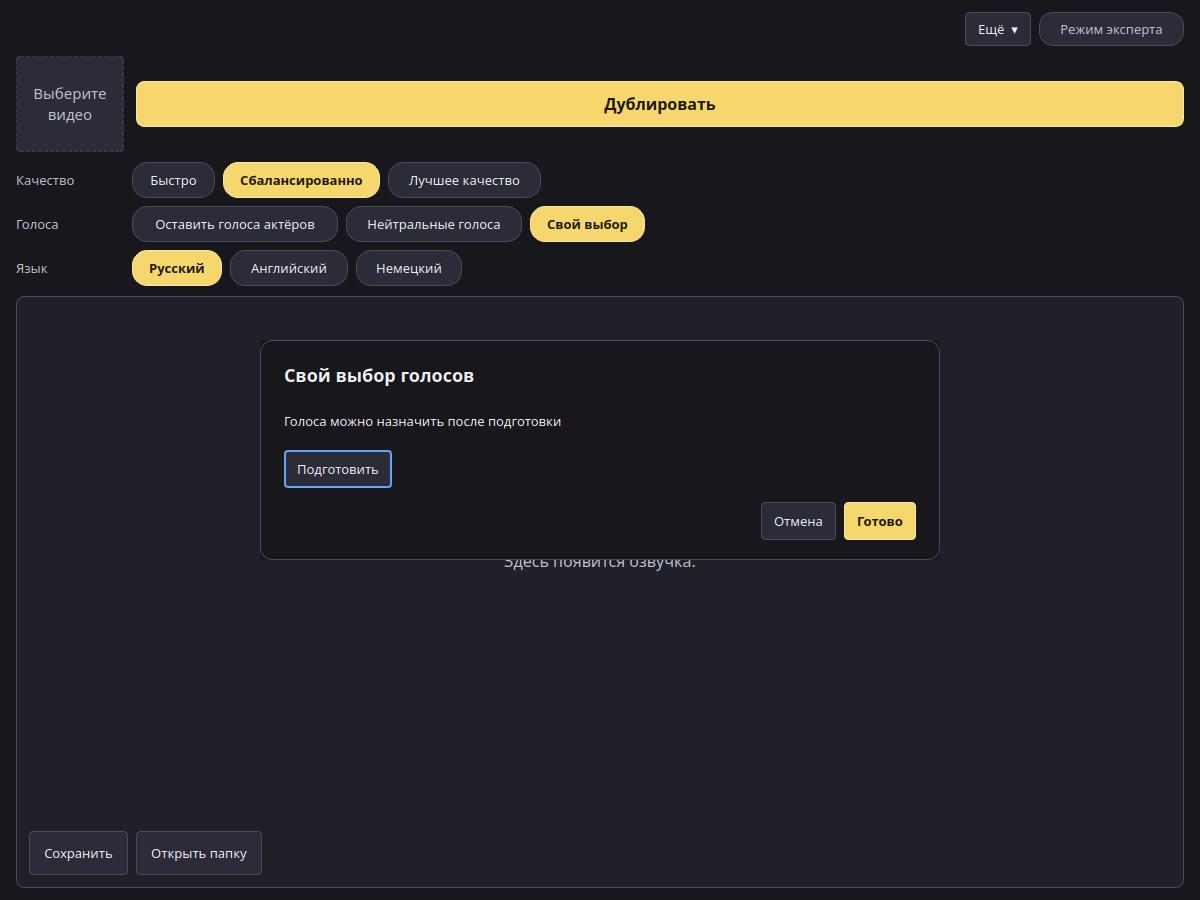
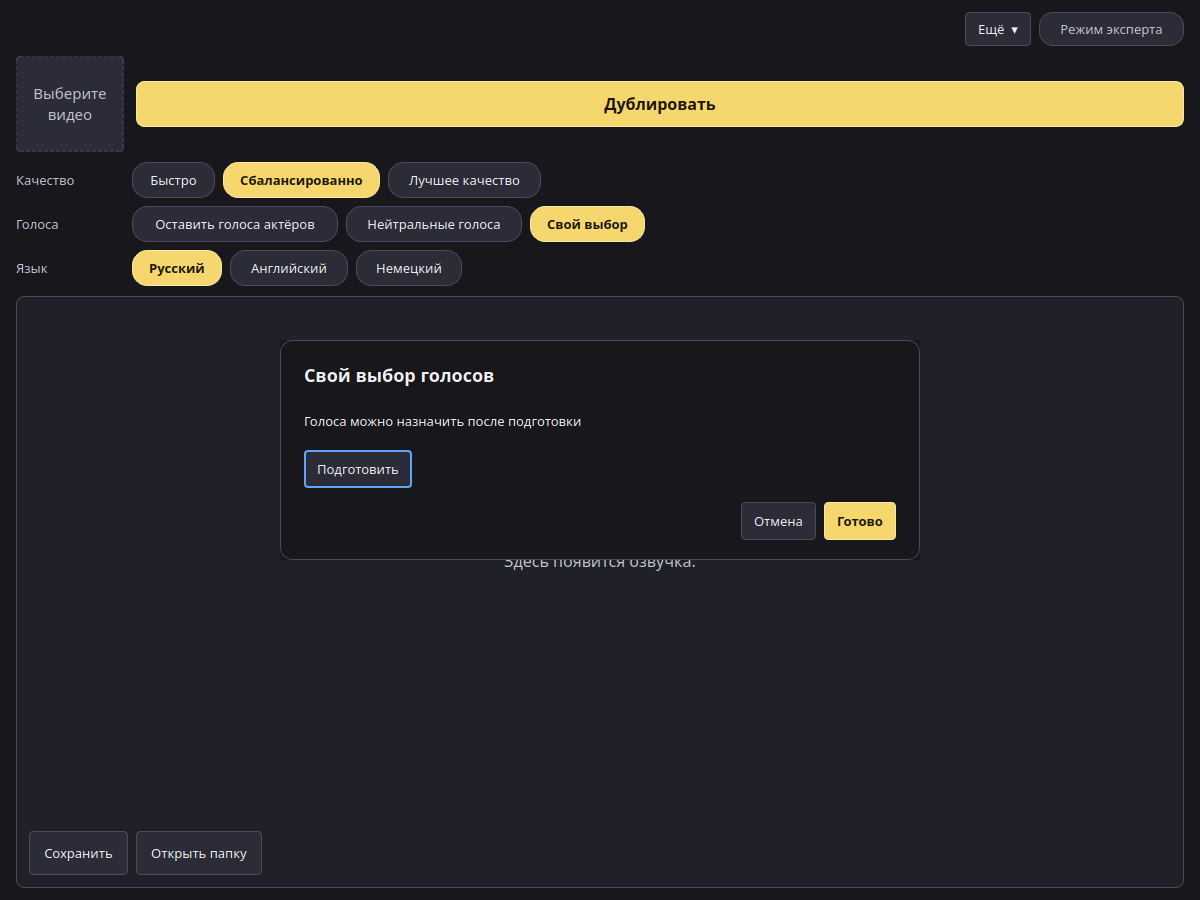
Label diarization speakers as Voice N in Custom voices.
The dialog no longer shows character names. Each row is Voice 1, Voice 2, and so on, with speech time, a film excerpt, a library voice, and a preview of that library voice. The Characters step uses the same Voice N label for a blank or generic speaker name.

Changed region(s): [[0.2158, 0.4667, 0.4933, 0.56], [0.6167, 0.56, 0.7708, 0.6222], [0.2158, 0.4044, 0.4317, 0.4356]]

diff --git a/dubber/ui/voice_cast.py b/dubber/ui/voice_cast.py
@@ -47,16 +47,20 @@ class CastHost(Protocol):
         """Return whether Prepare has finished and the film has lines."""
         ...
 
-    def cast_characters(self) -> list[tuple[str, str, str]]:
-        """Return ``(id, name, voice key)`` for each character."""
+    def cast_characters(self) -> list[tuple[str, str, str, str]]:
+        """Return ``(id, Voice N, voice key, speech detail)`` for each speaker."""
         ...
 
     def cast_prepare(self) -> None:
         """Start Prepare."""
         ...
 
-    def cast_listen(self, sid: str) -> None:
-        """Play a sample of this character's voice."""
+    def cast_play_excerpt(self, sid: str) -> None:
+        """Play this speaker's short clip from the film."""
+        ...
+
+    def cast_play_library(self, sid: str) -> None:
+        """Play the library voice chosen for this speaker."""
         ...
 
     def cast_assign(self, sid: str, key: str) -> None:
@@ -75,7 +79,7 @@ class VoiceCastDialog(QDialog):
         """
         super().__init__(host)
         self._host = cast(CastHost, host)
-        self._original: list[tuple[str, str, str]] = []
+        self._original: list[tuple[str, str, str, str]] = []
         self.setObjectName("voiceCast")
         self.setWindowFlag(Qt.WindowType.FramelessWindowHint, True)
         self.setAttribute(Qt.WidgetAttribute.WA_StyledBackground, True)
@@ -150,12 +154,14 @@ class VoiceCastDialog(QDialog):
         self._hint.setText(tr("shell.voice.cast_hint") if ready else tr("shell.voice.cast_wait"))
         self._prepare_row.setVisible(not ready)
         self._scroll.setVisible(ready)
+        self.setMinimumWidth(920 if ready else 640)
         if not ready:
             self.adjustSize()
             return
         items = _library_items()
-        for sid, name, chosen in self._original:
-            self._rows.addWidget(self._row(sid, name, chosen, items))
+        for sid, label, chosen, detail in self._original:
+            self._rows.addWidget(self._row(sid, label, chosen, detail, items))
+        self._scroll.setMinimumHeight(min(440, max(56, 64 * len(self._original))))
         self._rows.addStretch(1)
         self.adjustSize()
 
@@ -181,24 +187,44 @@ class VoiceCastDialog(QDialog):
         self._host.cast_prepare()
 
     def _cancel_clicked(self) -> None:
-        for sid, _name, key in self._original:
+        for sid, _label, key, _detail in self._original:
             self._host.cast_assign(sid, key or "clone:")
         self.reject()
 
-    def _row(self, sid: str, name: str, current: str, items: list[tuple[Voice, str]]) -> QWidget:
+    def _row(
+        self,
+        sid: str,
+        label: str,
+        current: str,
+        detail: str,
+        items: list[tuple[Voice, str]],
+    ) -> QWidget:
         row = QWidget()
         row.setObjectName(f"voiceRow-{sid}")
         layout = QHBoxLayout(row)
         layout.setContentsMargins(0, 0, 0, 0)
         layout.setSpacing(12)
-        label = QLabel(name)
-        label.setObjectName(f"voiceName-{sid}")
-        label.setMinimumWidth(140)
-        label.setSizePolicy(QSizePolicy.Policy.Preferred, QSizePolicy.Policy.Fixed)
+        names_host = QWidget()
+        names_host.setFixedWidth(136)
+        names = QVBoxLayout(names_host)
+        names.setContentsMargins(0, 0, 0, 0)
+        names.setSpacing(0)
+        title = QLabel(label)
+        title.setObjectName(f"voiceName-{sid}")
+        meta = QLabel(detail)
+        meta.setObjectName(f"voiceMeta-{sid}")
+        meta.setProperty("voiceMeta", "true")
+        names.addWidget(title)
+        names.addWidget(meta)
+        excerpt = QPushButton(tr("shell.voice.play_excerpt"))
+        excerpt.setObjectName(f"voiceExcerpt-{sid}")
+        excerpt.setAutoDefault(False)
+        excerpt.setSizePolicy(QSizePolicy.Policy.Fixed, QSizePolicy.Policy.Fixed)
+        excerpt.clicked.connect(lambda _checked=False, speaker=sid: self._host.cast_play_excerpt(speaker))
         picker = QComboBox()
         picker.setObjectName(f"voicePick-{sid}")
         picker.setSizePolicy(QSizePolicy.Policy.Expanding, QSizePolicy.Policy.Fixed)
-        picker.setMinimumContentsLength(18)
+        picker.setMinimumContentsLength(16)
         picker.setSizeAdjustPolicy(QComboBox.SizeAdjustPolicy.AdjustToMinimumContentsLengthWithIcon)
         if items:
             fill_voice_combo(picker, _voice_from_key(current), items)
@@ -208,14 +234,15 @@ class VoiceCastDialog(QDialog):
         else:
             picker.addItem(tr("shell.voice.none"))
             picker.setEnabled(False)
-        listen = QPushButton(tr("chars.listen"))
-        listen.setObjectName(f"voiceListen-{sid}")
-        listen.setAutoDefault(False)
-        listen.setSizePolicy(QSizePolicy.Policy.Fixed, QSizePolicy.Policy.Fixed)
-        listen.clicked.connect(lambda _checked=False, speaker=sid: self._host.cast_listen(speaker))
-        layout.addWidget(label)
+        preview = QPushButton(tr("shell.voice.play_library"))
+        preview.setObjectName(f"voiceLibrary-{sid}")
+        preview.setAutoDefault(False)
+        preview.setSizePolicy(QSizePolicy.Policy.Fixed, QSizePolicy.Policy.Fixed)
+        preview.clicked.connect(lambda _checked=False, speaker=sid: self._host.cast_play_library(speaker))
+        layout.addWidget(names_host)
+        layout.addWidget(excerpt)
         layout.addWidget(picker, 1)
-        layout.addWidget(listen)
+        layout.addWidget(preview)
         return row
 
     def _assigned(self, sid: str, picker: QComboBox) -> None:
@@ -299,9 +326,12 @@ QLabel#voiceCastTitle {{
     font-weight: 600;
     background: transparent;
 }}
-QLabel#voiceCastHint {{
+QLabel#voiceCastHint, QLabel[voiceMeta="true"] {{
     color: {TEXT_MUTED};
     background: transparent;
+}}
+QLabel[voiceMeta="true"] {{
+    font-size: 11px;
 }}
 QWidget#voiceCastRows, QWidget#voiceCastPrepareRow, QScrollArea#voiceCastScroll {{
     background: {ROOT_PLAIN};

diff --git a/dubber/ui/shell_window.py b/dubber/ui/shell_window.py
@@ -26,7 +26,7 @@ from dubber.ui import dialogs
 from dubber.ui.feature_wizard import FeatureWizard
 from dubber.ui.jobs import PipelineThread
 from dubber.ui.setup_progress import ensure_with_dialog, startup_repair_dialog
-from dubber.ui.pages import voice_from_key
+from dubber.ui.pages import speaker_number, voice_from_key
 from dubber.ui.shell_state import apply_engine, apply_project, build_layout, dub_settings
 from dubber.ui.voice_cast import VoiceCastDialog, current_voice_key
 from dubber.ui.window import MainWindow
@@ -450,17 +450,20 @@ class ShellWindow(QWidget):
         studio = self._studio
         return studio is not None and studio._prepared()
 
-    def cast_characters(self) -> list[tuple[str, str, str]]:
-        """Return each character's id, name, and library voice key."""
+    def cast_characters(self) -> list[tuple[str, str, str, str]]:
+        """Return each speaker's id, Voice N label, library voice key, and speech detail."""
         studio = self._studio
         project = None if studio is None else studio.project
         if project is None:
             return []
-        people = sorted(project.speakers, key=lambda speaker: -speaker.seconds)
-        return [
-            (speaker.id, speaker.name or speaker.id, current_voice_key(speaker.voice))
-            for speaker in people
-        ]
+        people = sorted(project.speakers, key=lambda speaker: speaker_number(speaker.id, 10**6))
+        rows: list[tuple[str, str, str, str]] = []
+        for index, speaker in enumerate(people, start=1):
+            number = speaker_number(speaker.id, index)
+            lines = sum(1 for line in project.lines if line.speaker == speaker.id)
+            detail = tr("chars.seconds", s=int(speaker.seconds), n=lines)
+            rows.append((speaker.id, tr("shell.voice.speaker", n=number), current_voice_key(speaker.voice), detail))
+        return rows
 
     def cast_prepare(self) -> None:
         """Run Prepare, then fill the character list."""
@@ -481,14 +484,28 @@ class ShellWindow(QWidget):
         if self._cast is not None and self._cast.isVisible():
             self._cast.reload()
 
-    def cast_listen(self, sid: str) -> None:
-        """Play the sample for one character.
+    def cast_play_excerpt(self, sid: str) -> None:
+        """Play this speaker's clip from the film.
 
         Args:
             sid: Speaker id.
         """
         studio = self._ensure_studio(sync_file=False, push=False)
-        studio.listen(sid)
+        if not studio.play_excerpt(sid):
+            self.view.set_note(tr("chars.no_sample"))
+
+    def cast_play_library(self, sid: str) -> None:
+        """Play the library voice chosen for this speaker.
+
+        Args:
+            sid: Speaker id.
+        """
+        studio = self._ensure_studio(sync_file=False, push=False)
+        project = studio.project
+        speaker = None if project is None else project.speaker(sid)
+        voice_id = speaker.voice.id if speaker is not None and speaker.voice.kind == "library" else ""
+        if not voice_id or not studio.play_library_preview(voice_id):
+            self.view.set_note(tr("shell.voice.no_preview"))
 
     def cast_assign(self, sid: str, key: str) -> None:
         """Save one character's library voice on the shared project.

diff --git a/dubber/ui/pages.py b/dubber/ui/pages.py
@@ -5,6 +5,7 @@ switches pages.  Every edit is written to the project folder at once, so a close
 """
 from __future__ import annotations
 
+import re
 from pathlib import Path
 from typing import Dict, List, Optional
 
@@ -27,6 +28,33 @@ def card(primary: bool = False) -> QFrame:
     f.setObjectName("card")
     f.setProperty("primary", "true" if primary else "false")
     return f
+
+
+_GENERIC_NAME = re.compile(r"(?:speaker|voice|голос)\s*\d+", re.IGNORECASE)
+_SPEAKER_ID = re.compile(r"S(\d+)", re.IGNORECASE)
+
+
+def speaker_number(sid: str, fallback: int) -> int:
+    """Return the diarization number in ``S3``, or ``fallback`` when the id has none."""
+    match = _SPEAKER_ID.fullmatch(sid.strip())
+    return int(match.group(1)) if match else fallback
+
+
+def speaker_label(stored: str, sid: str) -> str:
+    """Return ``Voice N`` unless the user has typed a real name.
+
+    Diarization does not know who is speaking. ``Speaker 1``, ``S1``, and a
+    blank name are the same speaker, shown in the current language.
+
+    Args:
+        stored: The name saved on the speaker.
+        sid: Speaker id, such as ``S2``.
+    """
+    text = (stored or "").strip()
+    number = speaker_number(sid, 1)
+    if not text or text == sid or _SPEAKER_ID.fullmatch(text) or _GENERIC_NAME.fullmatch(text):
+        return tr("shell.voice.speaker", n=number)
+    return text
 
 
 def label(obj: str = "", wrap: bool = True) -> QLabel:
@@ -553,7 +581,7 @@ class SpeakerCard(QFrame):
         lay = QGridLayout(self)
         lay.setContentsMargins(14, 10, 14, 10)
         self.chk = QCheckBox()
-        self.edt_name = QLineEdit(sp.name or sp.id)
+        self.edt_name = QLineEdit(speaker_label(sp.name, sp.id))
         self.edt_name.editingFinished.connect(lambda: page.rename(self.sid, self.edt_name.text()))
         self.chk_key = QCheckBox(tr("chars.key"))
         self.chk_key.setToolTip(tr("chars.key_tip"))
@@ -897,7 +925,7 @@ class LinesPage(QWidget):
         self.project = p
         self._loading = True
         self.table.setRowCount(len(p.lines))
-        names = {s.id: (s.name or s.id) for s in p.speakers}
+        names = {s.id: speaker_label(s.name, s.id) for s in p.speakers}
         multi = bool(p.settings.get("multi_voice"))
         ro = Qt.ItemFlag.ItemIsSelectable | Qt.ItemFlag.ItemIsEnabled
         for i, ln in enumerate(p.lines):
@@ -950,7 +978,10 @@ class LinesPage(QWidget):
             ln.keep_original = it.checkState() == Qt.CheckState.Checked
         elif col == COL_SPEAKER:
             name = it.text().strip()
-            sid = next((s.id for s in self.project.speakers if name in (s.id, s.name)), None)
+            sid = next(
+                (s.id for s in self.project.speakers if name in (s.id, s.name, speaker_label(s.name, s.id))),
+                None,
+            )
             if sid is None and name:
                 sid = name
             if sid and sid != ln.speaker:

diff --git a/tests/test_shell_window.py b/tests/test_shell_window.py
@@ -157,8 +157,15 @@ def test_custom_voices_wait_until_prepare_then_save_a_library_voice(tmp_path, mo
         (voice_dir / "adapter_config.json").write_text("{}", encoding="utf-8")
         (voice_dir / "voice.json").write_text(payload, encoding="utf-8")
     project = Project.create(folder, source)
-    project.speakers = [Speaker("S1", "Анна", voice=Voice("library", "maria"), seconds=4)]
-    project.lines = [Line(1, 0.0, 1.0, text="Hello", speaker="S1")]
+    project.speakers = [
+        Speaker("S1", "Ann", voice=Voice("library", "maria"), seconds=12),
+        Speaker("S2", "Speaker 2", seconds=4),
+    ]
+    project.lines = [
+        Line(1, 0.0, 1.0, text="Hello", speaker="S1"),
+        Line(2, 1.2, 2.0, text="Again", speaker="S1"),
+        Line(3, 2.2, 3.0, text="Yes", speaker="S2"),
+    ]
     project.stages["translation"] = {"done": True}
     project.settings["multi_voice"] = True
     project.save()
@@ -169,12 +176,22 @@ def test_custom_voices_wait_until_prepare_then_save_a_library_voice(tmp_path, mo
     assert not prepare.isVisible()
     name = dialog.findChild(QWidget, "voiceName-S1")
     picker = dialog.findChild(QComboBox, "voicePick-S1")
-    listen = dialog.findChild(QPushButton, "voiceListen-S1")
-    assert name is not None and name.text() == "Анна"
+    assert name is not None and name.text() == "Голос 1"
+    meta = dialog.findChild(QWidget, "voiceMeta-S1")
+    excerpt = dialog.findChild(QPushButton, "voiceExcerpt-S1")
+    library = dialog.findChild(QPushButton, "voiceLibrary-S1")
+    other = dialog.findChild(QWidget, "voiceName-S2")
+    assert other is not None and other.text() == "Голос 2"
+    assert meta is not None and "12" in meta.text()
+    assert excerpt is not None and excerpt.text() == "Прослушать отрывок"
+    assert library is not None and library.text() == "Прослушать голос"
+    assert dialog.findChild(QPushButton, "voiceListen-S1") is None
     assert picker is not None and picker.currentText() == "Maria (рус.)"
     assert "Библиотека" not in picker.currentText()
-    assert listen is not None and listen.text() == "Прослушать"
-    assert hint is not None and hint.text() == "Выберите голос из библиотеки для каждого персонажа."
+    assert "Ann" not in name.text()
+    assert hint is not None and hint.text() == "Послушайте отрывок каждого голоса из фильма и выберите для него голос озвучки."
+    studio.chars.load(project)
+    assert studio.chars.cards["S2"].edt_name.text() == "Голос 2"
     dialog.place_on_parent()
     QApplication.processEvents()
     for button in dialog.findChildren(QPushButton):

diff --git a/dubber/ui/window.py b/dubber/ui/window.py
@@ -666,6 +666,50 @@ class MainWindow(QWidget):
         if what in ("merge", "name", "voice"):
             self.lines.load(project)
 
+    def play_excerpt(self, sid: str) -> bool:
+        """Play this speaker's short clip from the film.
+
+        The clip is the reference built for the character card. When that file
+        is not ready yet, a few of the speaker's lines are joined instead.
+
+        Args:
+            sid: Speaker id.
+
+        Returns:
+            True when a clip started.
+        """
+        project = self.project
+        if project is None:
+            return False
+        speaker = project.speaker(sid)
+        clip: Optional[Path] = None
+        if speaker is not None and speaker.ref_audio:
+            path = project.abs(speaker.ref_audio)
+            if path.is_file():
+                clip = path
+        if clip is None:
+            clip = self._speaker_sample(sid)
+        if clip is None:
+            return False
+        self._play_clip(clip)
+        return True
+
+    def play_library_preview(self, voice_id: str) -> bool:
+        """Play the sample that belongs to a library voice.
+
+        Args:
+            voice_id: Library folder name.
+
+        Returns:
+            True when a clip started.
+        """
+        library = voices.get_library_voice(voice_id)
+        clip = None if library is None else library.preview
+        if clip is None or not clip.is_file():
+            return False
+        self._play_clip(clip)
+        return True
+
     def listen(self, sid: str) -> None:
         """Play what a voice will sound like: the library sample, the reference clip, or a few of the speaker's lines."""
         p = self.project

diff --git a/docs/ui/FEATURE-MAP.md b/docs/ui/FEATURE-MAP.md
@@ -11,7 +11,7 @@ The wizard steps are Film, Characters, Lines, and Dub. The Dub step is the playe
 | Choose a video (button, click, or drop; mkv, mp4, avi, mov, webm, m4v, ts, m2ts) | Main screen drop target. The Review wizard Film step has the same chooser. |
 | Dub language: Russian, English, or German | Language chips on the main screen, the Expert language field, and the Film step combo. One language per film, as before. |
 | Quality: Fast, Balanced, Best quality | Quality chips. Expert shows the concrete speech, separation, and batch values. |
-| Voices: Keep actor voices, Neutral voices, or Custom | Voices chips. Custom opens a dialog titled Choose voices, on the shell theme. After Prepare, each row is a character, a library voice, and Listen. Before Prepare it asks to prepare. The same multi-voice flag and per-character voice are what the Characters step and Expert use. Likeness stays in Expert. |
+| Voices: Keep actor voices, Neutral voices, or Custom | Voices chips. Custom opens a dialog titled Choose voices, on the shell theme. After Prepare, each row is a diarization speaker (Voice 1, Voice 2), a film excerpt, a library voice, and a preview of that library voice. Before Prepare it asks to prepare. The same multi-voice flag and per-speaker voice are what the Characters step and Expert use. Likeness stays in Expert. |
 | Actor likeness, default 50% | Expert field shows 50%. The project still stores 0 to 1. Film step slider when one voice is used. Each character card has its own slider. |
 | Audiobook narrator voice (Warm, Clear, Low) | Hidden. That row belongs to the audio surface and is not a film voice. Character voices stay on the Characters step and in Expert. |
 | Different voices for different characters | Expert multi-voice field and the Film step checkbox. |
